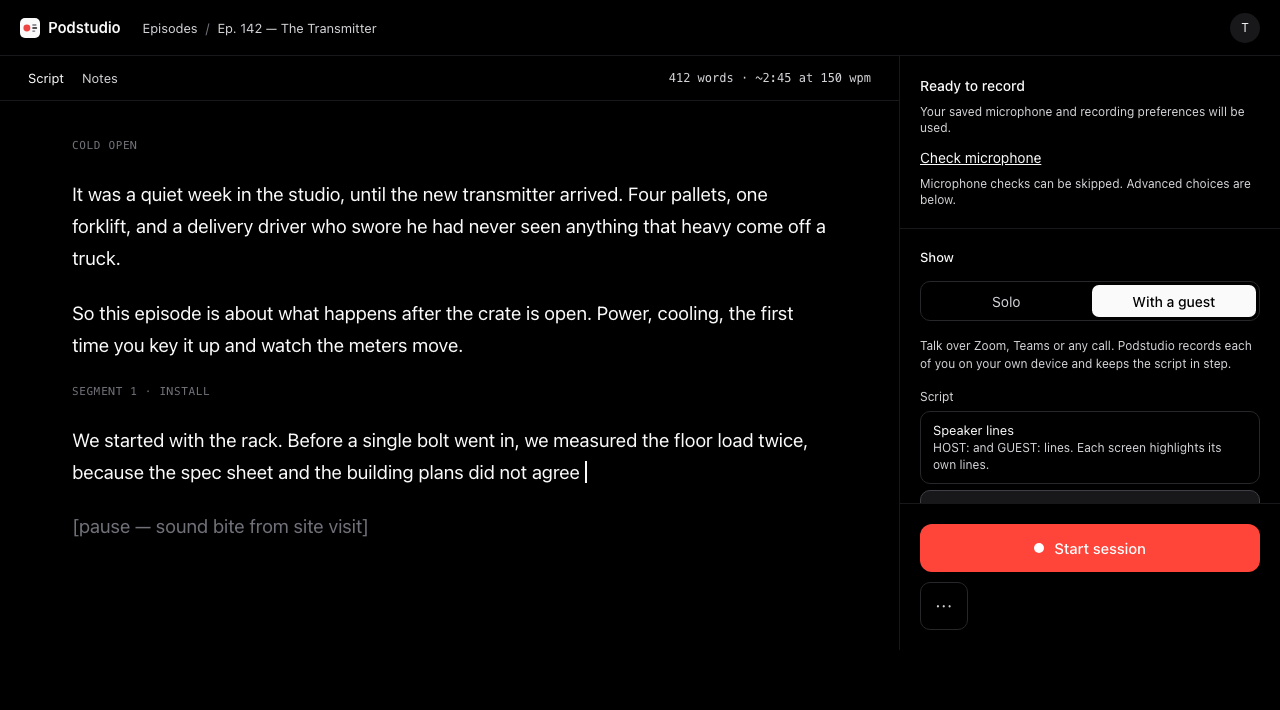
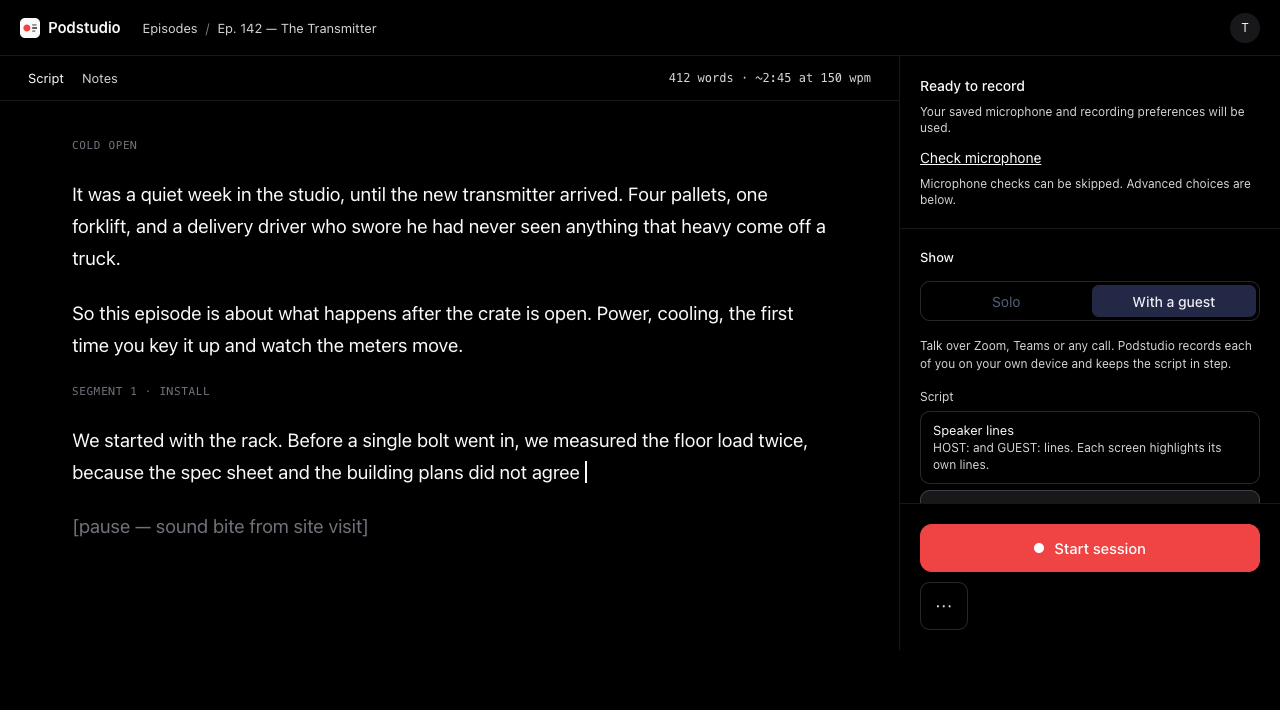
Match recording screenshot to deployed UI

Changed region(s): [[0.8438, 0.4028, 1.0, 0.4648], [0.7812, 0.4028, 0.8125, 0.4338]]

diff --git a/site/README.md b/site/README.md
@@ -60,7 +60,8 @@ preparation. It still labels the product as in development.
 The screenshot set was refreshed together to reflect the current local app
 build, using a disposable test account and demo audio for the desktop captures,
 never private recordings. Every published image now uses the same Pi-Tuner-
-inspired black shell, zinc borders, white controls and signal-color tracks:
+inspired black shell, zinc borders, white primary actions, indigo selections
+and signal-color tracks:
 
 - `public/images/editor-current.png`: current dark editor with the compact rail,
   synchronized timeline, track meter and master output dock.
